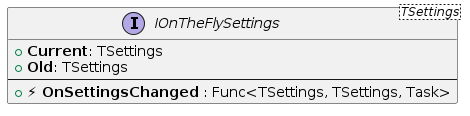
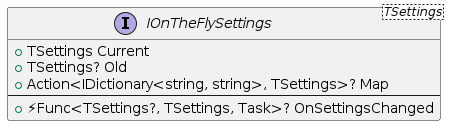
added map to support setting names different from property names in class.

Changed region(s): [[0.0, 0.0259, 0.989, 0.931]]

diff --git a/OnTheFlySettings.Tests/OnTheFlySettingsTests.cs b/OnTheFlySettings.Tests/OnTheFlySettingsTests.cs
@@ -50,7 +50,7 @@ namespace OnTheFlySettings.Tests
         }
 
         [Fact]
-        public void ReplaceDictionary()
+        public void Replace_Map()
         {
             // Arrange
             var originalSettings = new MyHealthCheckBasicSettings
@@ -64,13 +64,67 @@ namespace OnTheFlySettings.Tests
 
             var onTheFlySettings = new OnTheFlySettings<MyHealthCheckBasicSettings>(originalSettings);
 
+            var updatedSettings = new
+            {
+                IntervalInMinutes = "30",
+                IntervalCronExpression = "*/5 * * * *",
+                ServerHubUrl = "https://localhost:5001/newlivehealthcheckshub",
+                OnlyWhenNotHealthy = "true",
+                AddMiddleware = "true"
+            };
+
+            var jsonElement = CreateJsonElement(updatedSettings);
+
+            onTheFlySettings.Map = (dict, settings) =>
+            {
+                settings.HealthCheckIntervalInMinutes = int.Parse(dict["IntervalInMinutes"]);
+                settings.HealthCheckIntervalCronExpression = dict["IntervalCronExpression"];
+                settings.HealthCheckServerHubUrl = dict["ServerHubUrl"];
+                settings.PublishOnlyWhenNotHealthy = bool.Parse(dict["OnlyWhenNotHealthy"]);
+                settings.AddHealthCheckMiddleware = bool.Parse(dict["AddMiddleware"]);
+            };
+
+            // Act
+            onTheFlySettings.Replace(jsonElement);
+
+            // Assert
+            Assert.NotNull(onTheFlySettings.Old);
+            Assert.Equal(onTheFlySettings.Old.HealthCheckIntervalInMinutes, originalSettings.HealthCheckIntervalInMinutes);
+            Assert.Equal(onTheFlySettings.Old.HealthCheckIntervalCronExpression, originalSettings.HealthCheckIntervalCronExpression);
+            Assert.Equal(onTheFlySettings.Old.HealthCheckServerHubUrl, originalSettings.HealthCheckServerHubUrl);
+            Assert.Equal(onTheFlySettings.Old.PublishOnlyWhenNotHealthy, originalSettings.PublishOnlyWhenNotHealthy);
+            Assert.Equal(onTheFlySettings.Old.AddHealthCheckMiddleware, originalSettings.AddHealthCheckMiddleware);
+
+            Assert.NotNull(onTheFlySettings.Current);
+            Assert.Equal(onTheFlySettings.Current.HealthCheckIntervalInMinutes, int.Parse(updatedSettings.IntervalInMinutes));
+            Assert.Equal(onTheFlySettings.Current.HealthCheckIntervalCronExpression, updatedSettings.IntervalCronExpression);
+            Assert.Equal(onTheFlySettings.Current.HealthCheckServerHubUrl, updatedSettings.ServerHubUrl);
+            Assert.Equal(onTheFlySettings.Current.PublishOnlyWhenNotHealthy, bool.Parse(updatedSettings.OnlyWhenNotHealthy));
+            Assert.Equal(onTheFlySettings.Current.AddHealthCheckMiddleware, bool.Parse(updatedSettings.AddMiddleware));
+        }
+
+        [Fact]
+        public void ReplaceDictionary()
+        {
+            // Arrange
+            var originalSettings = new MyHealthCheckBasicSettings
+            {
+                HealthCheckIntervalInMinutes = 15,
+                HealthCheckIntervalCronExpression = "* * * * *",
+                HealthCheckServerHubUrl = "https://localhost:5001/livehealthcheckshub",
+                PublishOnlyWhenNotHealthy = false,
+                AddHealthCheckMiddleware = false
+            };  
+
+            var onTheFlySettings = new OnTheFlySettings<MyHealthCheckBasicSettings>(originalSettings);
+
             var updatedSettings = new Dictionary<string, string>();
 
             updatedSettings.Add("HealthCheckIntervalInMinutes", "30");
             updatedSettings.Add("HealthCheckIntervalCronExpression", "*/5 * * * *");
             updatedSettings.Add("HealthCheckServerHubUrl", "https://localhost:5001/newlivehealthcheckshub");
             updatedSettings.Add("PublishOnlyWhenNotHealthy", "true");
-            updatedSettings.Add("AddHealthCheckMiddleware", "true");                        
+            updatedSettings.Add("AddHealthCheckMiddleware", "true");
 
             // Act
             onTheFlySettings.Replace(updatedSettings);
@@ -89,6 +143,57 @@ namespace OnTheFlySettings.Tests
             Assert.Equal(onTheFlySettings.Current.HealthCheckServerHubUrl, updatedSettings["HealthCheckServerHubUrl"]);
             Assert.Equal(onTheFlySettings.Current.PublishOnlyWhenNotHealthy, bool.Parse(updatedSettings["PublishOnlyWhenNotHealthy"]));
             Assert.Equal(onTheFlySettings.Current.AddHealthCheckMiddleware, bool.Parse(updatedSettings["AddHealthCheckMiddleware"]));
+        }
+
+        [Fact]
+        public void ReplaceDictionary_Map()
+        {
+            // Arrange
+            var originalSettings = new MyHealthCheckBasicSettings
+            {
+                HealthCheckIntervalInMinutes = 15,
+                HealthCheckIntervalCronExpression = "* * * * *",
+                HealthCheckServerHubUrl = "https://localhost:5001/livehealthcheckshub",
+                PublishOnlyWhenNotHealthy = false,
+                AddHealthCheckMiddleware = false
+            };
+
+            var onTheFlySettings = new OnTheFlySettings<MyHealthCheckBasicSettings>(originalSettings);
+
+            var updatedSettings = new Dictionary<string, string>();
+
+            updatedSettings.Add("IntervalInMinutes", "30");
+            updatedSettings.Add("IntervalCronExpression", "*/5 * * * *");
+            updatedSettings.Add("ServerHubUrl", "https://localhost:5001/newlivehealthcheckshub");
+            updatedSettings.Add("OnlyWhenNotHealthy", "true");
+            updatedSettings.Add("AddMiddleware", "true");
+
+            onTheFlySettings.Map = (dict, settings) =>
+            {
+                settings.HealthCheckIntervalInMinutes = int.Parse(dict["IntervalInMinutes"]);
+                settings.HealthCheckIntervalCronExpression = dict["IntervalCronExpression"];
+                settings.HealthCheckServerHubUrl = dict["ServerHubUrl"];
+                settings.PublishOnlyWhenNotHealthy = bool.Parse(dict["OnlyWhenNotHealthy"]);
+                settings.AddHealthCheckMiddleware = bool.Parse(dict["AddMiddleware"]);
+            };
+
+            // Act
+            onTheFlySettings.Replace(updatedSettings);
+
+            // Assert
+            Assert.NotNull(onTheFlySettings.Old);
+            Assert.Equal(onTheFlySettings.Old.HealthCheckIntervalInMinutes, originalSettings.HealthCheckIntervalInMinutes);
+            Assert.Equal(onTheFlySettings.Old.HealthCheckIntervalCronExpression, originalSettings.HealthCheckIntervalCronExpression);
+            Assert.Equal(onTheFlySettings.Old.HealthCheckServerHubUrl, originalSettings.HealthCheckServerHubUrl);
+            Assert.Equal(onTheFlySettings.Old.PublishOnlyWhenNotHealthy, originalSettings.PublishOnlyWhenNotHealthy);
+            Assert.Equal(onTheFlySettings.Old.AddHealthCheckMiddleware, originalSettings.AddHealthCheckMiddleware);
+
+            Assert.NotNull(onTheFlySettings.Current);
+            Assert.Equal(onTheFlySettings.Current.HealthCheckIntervalInMinutes, int.Parse(updatedSettings["IntervalInMinutes"]));
+            Assert.Equal(onTheFlySettings.Current.HealthCheckIntervalCronExpression, updatedSettings["IntervalCronExpression"]);
+            Assert.Equal(onTheFlySettings.Current.HealthCheckServerHubUrl, updatedSettings["ServerHubUrl"]);
+            Assert.Equal(onTheFlySettings.Current.PublishOnlyWhenNotHealthy, bool.Parse(updatedSettings["OnlyWhenNotHealthy"]));
+            Assert.Equal(onTheFlySettings.Current.AddHealthCheckMiddleware, bool.Parse(updatedSettings["AddMiddleware"]));
         }
 
         private JsonElement CreateJsonElement<T>(T settings)

diff --git a/OnTheFlySettings/OnTheFlySettings.cs b/OnTheFlySettings/OnTheFlySettings.cs
@@ -11,10 +11,11 @@ namespace OnTheFlySettings
         private readonly object _lock = new();
         public event Func<TSettings?, TSettings, Task>? OnSettingsChanged;
         public ILogger? Logger { get; set; }
+        public Action<IDictionary<string, string>, TSettings>? Map { get; set; }
 
         public OnTheFlySettings(TSettings settings)
-        {
-            _current = settings;
+        {            
+            _current = Clone(settings);
         }
 
         public TSettings Current
@@ -38,6 +39,18 @@ namespace OnTheFlySettings
 
             if (newSettings is JsonElement jsonElement)
             {
+                if (Map != null)
+                {
+                    var dict = JsonSerializer.Deserialize<Dictionary<string, string>>(jsonElement.GetRawText());
+                    if (dict != null)
+                    {
+                        var settings = new TSettings();
+                        Map(dict, settings);
+                        Replace(settings);
+                        return;
+                    }
+                    return;
+                }
                 var options = new JsonSerializerOptions
                 {
                     PropertyNameCaseInsensitive = true
@@ -82,13 +95,23 @@ namespace OnTheFlySettings
                 var oldSettingsStr = JsonSerializer.Serialize(_current, options);
                 var newSettingsStr = JsonSerializer.Serialize(newSettings, options);
 
-                var oldSettings = _current;
                 Logger?.LogInformation("Replacing settings with new settings. Old settings: {OldSettings}, New settings: {NewSettings}", oldSettingsStr, newSettingsStr);
-                _old = oldSettings;
-                MapToClass(newSettings);
+                _old = Clone(_current);
+
+                if (Map != null)
+                {
+                    var settings = new TSettings();
+                    Map(newSettings, settings);
+                    _current = settings;
+                }
+                else
+                {
+                    MapToClass(newSettings);
+                }
+                
                 newSettingsStr = JsonSerializer.Serialize(_current, options);
                 Logger?.LogInformation("Settings replaced successfully. Old settings: {OldSettings}, New settings: {NewSettings}", oldSettingsStr, newSettingsStr);
-                OnSettingsChanged?.Invoke(oldSettings, _current);
+                OnSettingsChanged?.Invoke(_old, _current);
                 Logger?.LogInformation("OnSettingsChanged event invoked successfully. Old settings: {OldSettings}, New settings: {NewSettings}", oldSettingsStr, newSettingsStr);
             }
         }
@@ -100,7 +123,7 @@ namespace OnTheFlySettings
         {
             if (newSettings == null) throw new ArgumentNullException(nameof(newSettings));
 
-            Type type = typeof(TSettings);
+            Type type = typeof(TSettings);            
 
             foreach (var kvp in newSettings)
             {
@@ -121,6 +144,16 @@ namespace OnTheFlySettings
                     }
                 }
             }
+        }
+
+        private TSettings Clone(TSettings settings)
+        {
+            var options = new JsonSerializerOptions
+            {
+                WriteIndented = true
+            };
+            var json = JsonSerializer.Serialize(settings, options);
+            return JsonSerializer.Deserialize<TSettings>(json, options)!;
         }
     }
 }

diff --git a/OnTheFlySettings/Extensions.cs b/OnTheFlySettings/Extensions.cs
@@ -2,28 +2,29 @@
 {
     public static class Extensions
     {
-        public static IServiceCollection AddOnTheFlySettings<TSettings>(this IServiceCollection services, TSettings settings)
+        public static IServiceCollection AddOnTheFlySettings<TSettings>(this IServiceCollection services, TSettings settings, Action<IDictionary<string, string>, TSettings>? map = null)
             where TSettings : class, new()
         {
-            return services.AddOnTheFlySettingsInternal(settings);
+            return services.AddOnTheFlySettingsInternal(settings, map);
         }
 
-        public static IServiceCollection AddOnTheFlySettings<TSettings>(this IServiceCollection services, Action<TSettings> configure)
+        public static IServiceCollection AddOnTheFlySettings<TSettings>(this IServiceCollection services, Action<TSettings> configure, Action<IDictionary<string, string>, TSettings>? map = null)
             where TSettings : class, new()
         {
             var settings = new TSettings();
 
             configure(settings);
 
-            return services.AddOnTheFlySettingsInternal(settings);
+            return services.AddOnTheFlySettingsInternal(settings, map);
         }
 
-        private static IServiceCollection AddOnTheFlySettingsInternal<TSettings>(this IServiceCollection services, TSettings settings)
+        private static IServiceCollection AddOnTheFlySettingsInternal<TSettings>(this IServiceCollection services, TSettings settings, Action<IDictionary<string, string>, TSettings>? map = null)
             where TSettings : class, new()
         {
             services.AddSingleton(settings);
 
             var onTheFlySettings = new OnTheFlySettings<TSettings>(settings);
+            onTheFlySettings.Map = map;
 
             services.AddSingleton<IOnTheFlySettings>(sp => {
                 var factory = sp.GetService<ILoggerFactory>();

diff --git a/OnTheFlySettings/README.md b/OnTheFlySettings/README.md
@@ -272,6 +272,27 @@ app.MapAWSPutReplaceOnTheFlySettings()
 
 Thats it!
 
+### Map
+
+If you want to have different names for your settings than the property names in your class, 
+
+you can use the `map` overload to map your settings to properties in you class.
+
+```csharp
+// Add the settings to the OnTheFlySettings framework
+builder.Services.AddOnTheFlySettings(appBasicSettings, Map);
+
+
+static void Map (IDictionary<string, string> dictionary, MyHealthCheckBasicSettings settings)
+{
+    settings.HealthCheckIntervalInMinutes = int.Parse(dictionary["intervalInMinutes"]);
+    settings.HealthCheckIntervalCronExpression = dictionary["intervalCronExpression"];
+    settings.HealthCheckServerHubUrl = dictionary["serverHubUrl"];
+    settings.PublishOnlyWhenNotHealthy = bool.Parse(dictionary["onlyWhenNotHealthy"]);
+    settings.AddHealthCheckMiddleware = bool.Parse(dictionary["addMiddleware"]);
+}
+```
+
 ## Usage in your API/App
 
 The library provides a `IOnTheFlySettings<TSettings>` interface that you use in your API/App.

diff --git a/README.md b/README.md
@@ -271,6 +271,27 @@ app.MapAWSPutReplaceOnTheFlySettings()
 
 Thats it!
 
+### Map
+
+If you want to have different names for your settings than the property names in your class, 
+
+you can use the `map` overload to map your settings to properties in you class.
+
+```csharp
+// Add the settings to the OnTheFlySettings framework
+builder.Services.AddOnTheFlySettings(appBasicSettings, Map);
+
+
+static void Map (IDictionary<string, string> dictionary, MyHealthCheckBasicSettings settings)
+{
+    settings.HealthCheckIntervalInMinutes = int.Parse(dictionary["intervalInMinutes"]);
+    settings.HealthCheckIntervalCronExpression = dictionary["intervalCronExpression"];
+    settings.HealthCheckServerHubUrl = dictionary["serverHubUrl"];
+    settings.PublishOnlyWhenNotHealthy = bool.Parse(dictionary["onlyWhenNotHealthy"]);
+    settings.AddHealthCheckMiddleware = bool.Parse(dictionary["addMiddleware"]);
+}
+```
+
 ## Usage in your API/App
 
 The library provides a `IOnTheFlySettings<TSettings>` interface that you use in your API/App.
